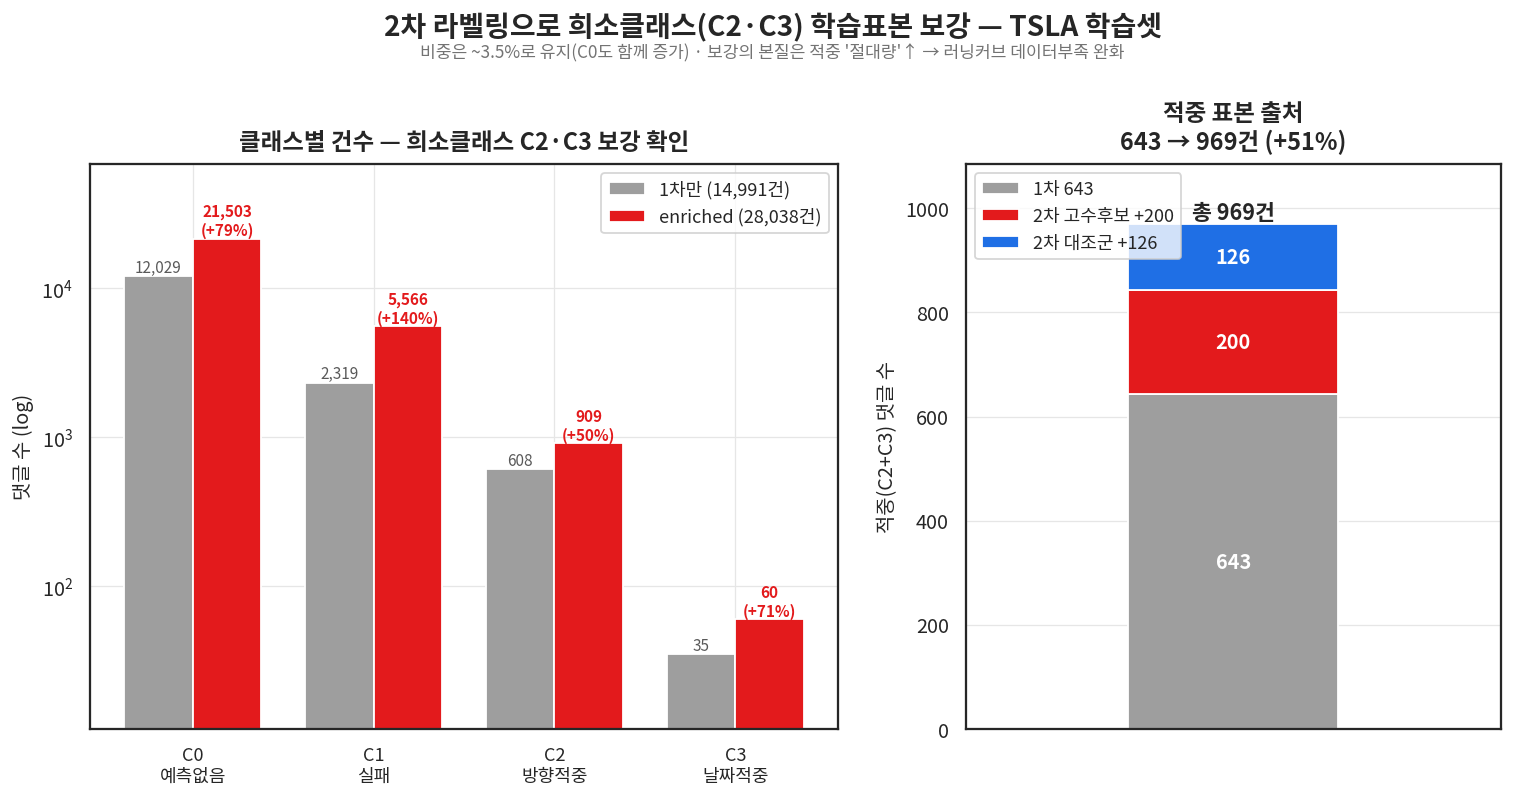
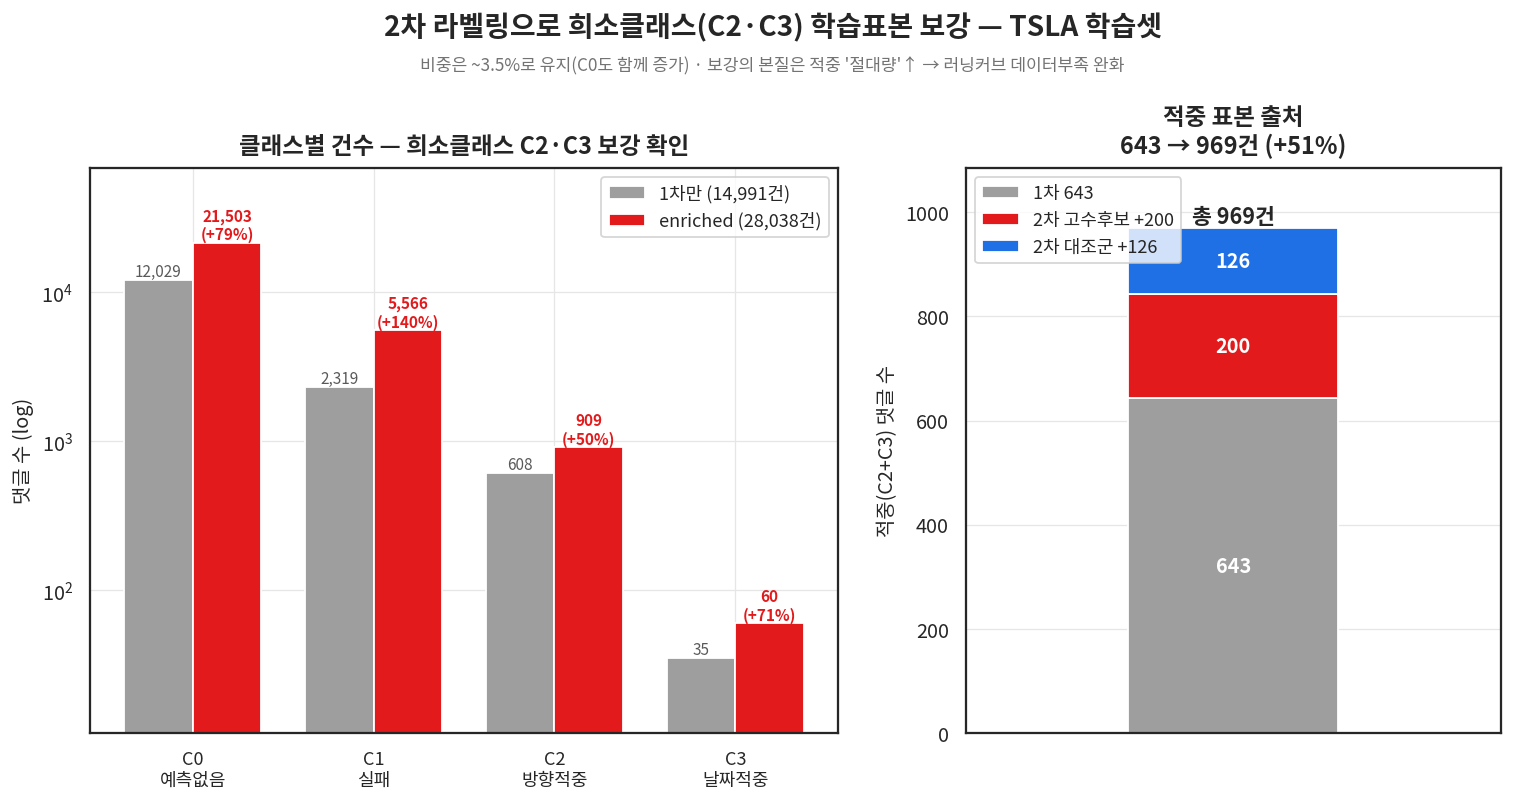
fig_enrich: 제목↔소제목 간격 미세조정 후 재생성

diff --git a/5_train2_retrain/fig_enrich.py b/5_train2_retrain/fig_enrich.py
@@ -58,8 +58,8 @@ axR.margins(y=0.12)
 # 제목·소제목을 그래프 위로 띄우되, 제목↔소제목 간격은 좁게
 fig.subplots_adjust(top=0.80)
 fig.suptitle("2차 라벨링으로 희소클래스(C2·C3) 학습표본 보강 — TSLA 학습셋",
-             fontsize=15.5, fontweight="bold", y=0.985)
-fig.text(0.5, 0.93, "비중은 ~3.5%로 유지(C0도 함께 증가) · 보강의 본질은 적중 '절대량'↑ → 러닝커브 데이터부족 완화",
+             fontsize=15.5, fontweight="bold", y=0.99)
+fig.text(0.5, 0.918, "비중은 ~3.5%로 유지(C0도 함께 증가) · 보강의 본질은 적중 '절대량'↑ → 러닝커브 데이터부족 완화",
          ha="center", fontsize=9.5, color="0.45")
 _out = os.path.join(E.ROOT, "results", "fig_enrich_c2c3.png")
 fig.savefig(_out, dpi=130, bbox_inches="tight")